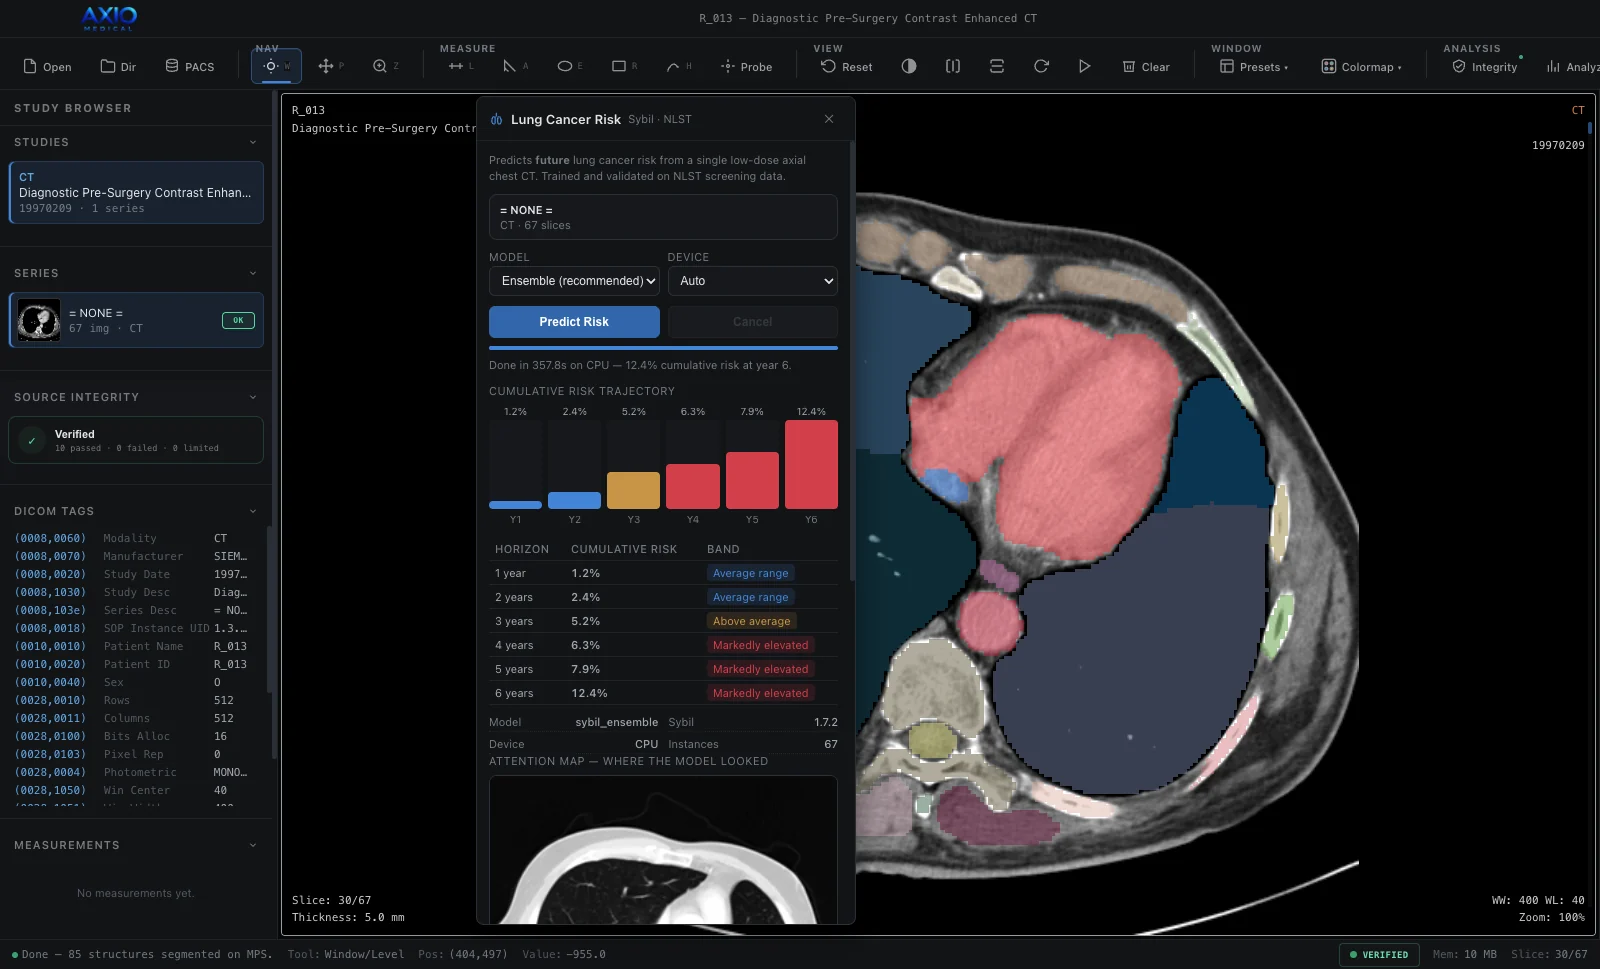
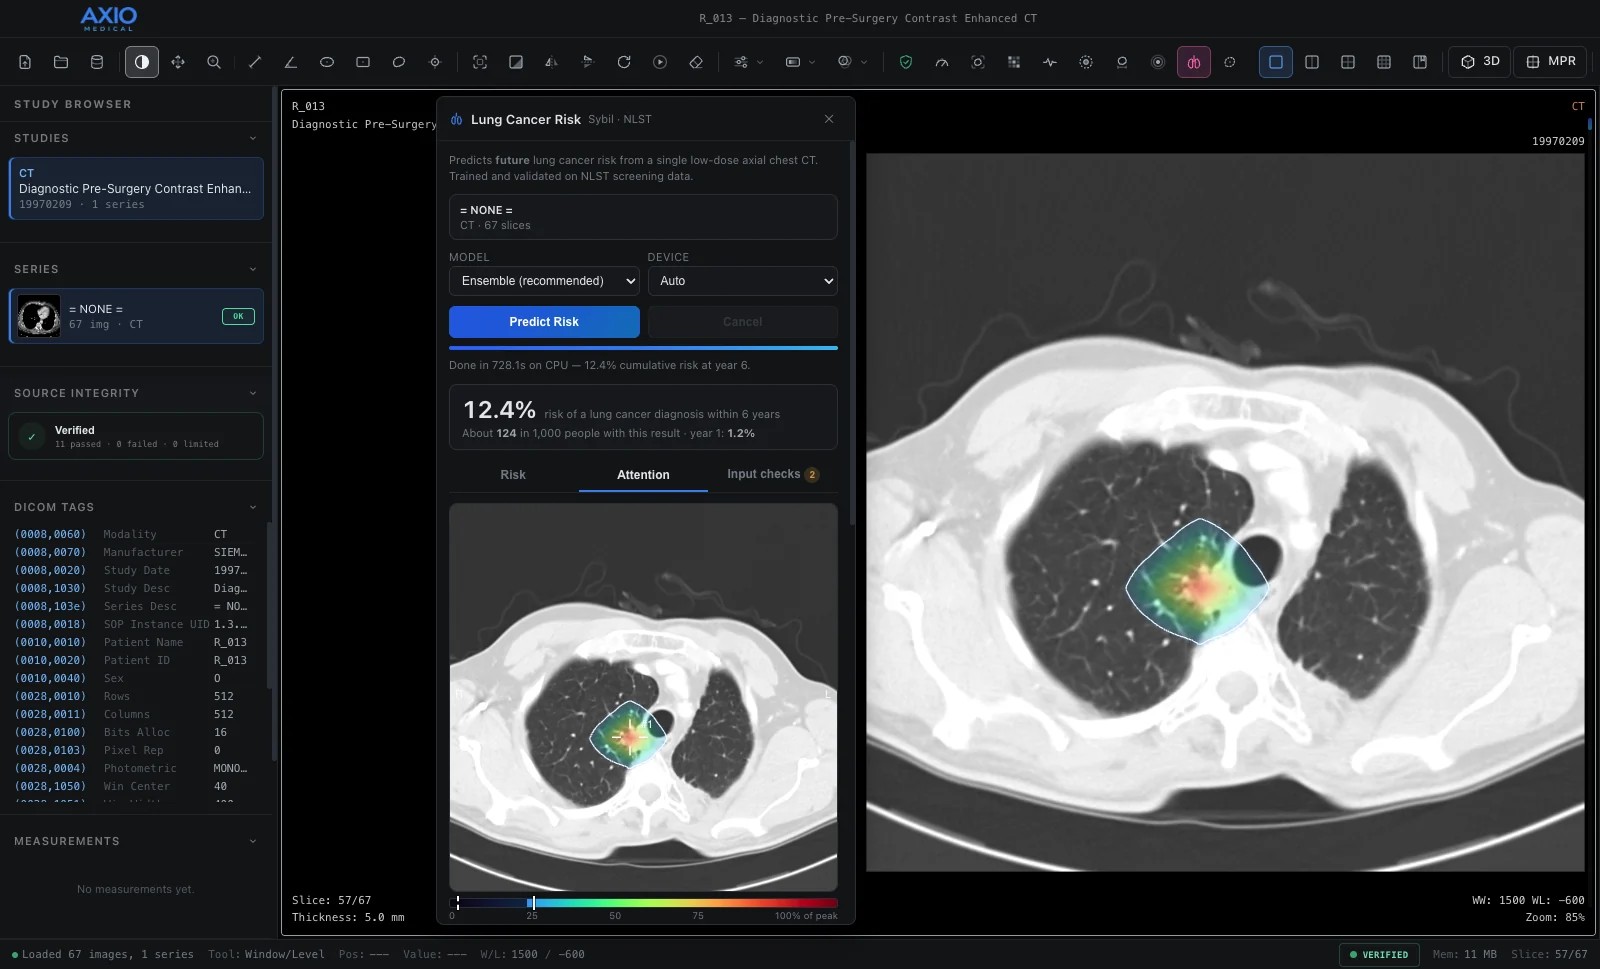
Website: 2.8.14 download, RECIST 1.1, current Lung Risk screenshot

diff --git a/index.html b/index.html
@@ -514,8 +514,8 @@
         </div>
       </div>
       <figure class="lg:col-span-7">
-        <div class="figure-frame"><img src="img/lungrisk.webp" width="1600" height="969" loading="lazy" alt="The Lung Cancer Risk panel with a six-year cumulative risk chart and an attention map over a chest CT slice."></div>
-        <figcaption class="caption">The Lung Cancer Risk panel as it was before 2.8.13: a cumulative trajectory and the attention map. 2.8.13 places the attention where the model looked and drops the per-horizon risk bands, which had no published source.</figcaption>
+        <div class="figure-frame"><img src="img/lungrisk.webp" width="1600" height="969" loading="lazy" alt="The Lung Cancer Risk panel: the model's attention in a colour scale over a chest CT slice, with the same map on the main image and the six-year risk."></div>
+        <figcaption class="caption">The Lung Cancer Risk panel: the model's attention, placed where it looked, in the panel and on the main image.</figcaption>
       </figure>
     </div>
   </div>
@@ -584,10 +584,12 @@
     <div class="grid gap-12 lg:grid-cols-12">
       <div class="lg:col-span-5">
         <p class="eyebrow">Download</p>
-        <h2 class="h-section mt-3">AXIO Medical 2.8.13</h2>
+        <h2 class="h-section mt-3">AXIO Medical 2.8.14</h2>
         <p class="lede mt-4">The 30-day trial. No account needed and no telemetry; enter your institution's licence key to keep using it afterwards.</p>
         <div class="mt-8 rounded-lg border border-accent/30 bg-accent/[0.06] p-5">
-          <p class="text-[14px] font-semibold text-ink-1">New in 2.8.13</p>
+          <p class="text-[14px] font-semibold text-ink-1">New in 2.8.14</p>
+          <p class="mt-2 text-[13.5px] leading-relaxed text-ink-2">Tumour response by RECIST 1.1: record target and non-target lesions, outline each in 3D with one click (its diameters and volume measured from the outline), and at the next study find every lesion again by the patient's anatomy and outline it the same way. Each follow-up gets its response and the case its best overall response, with every rule of the guideline and its 2016 update applied, and the reader's decision kept beside the computed one. A redrawn toolbar, each button in its own colour.</p>
+          <p class="mt-3 text-[14px] font-semibold text-ink-1">New in 2.8.13</p>
           <p class="mt-2 text-[13.5px] leading-relaxed text-ink-2">The lung cancer risk attention map is drawn where the model actually looked, by replaying its own preprocessing — earlier versions stretched it over the series, up to 40 mm off. The panel adds risk within each year, the five ensemble members, and checks of the scan against what the model was developed on.</p>
           <p class="mt-3 text-[14px] font-semibold text-ink-1">New in 2.8.12</p>
           <p class="mt-2 text-[13.5px] leading-relaxed text-ink-2">Every finding of an independent accuracy audit is corrected: the aortic diameter is measured perpendicular to the vessel, bone density follows the published L1 method, Lung-RADS applies v2022's size thresholds, PET SUV reconciles time zones, and tilted series are blocked from 3D. The AI engines now load on macOS 27.</p>
@@ -604,8 +606,8 @@
           <h3 class="font-display text-[18px] font-semibold">macOS</h3>
           <p class="mt-1 text-[13px] text-ink-3">macOS 11+ · Apple Silicon (M1 and later)</p>
           <div class="mt-6 flex flex-col gap-3">
-            <a class="btn-primary" href="https://github.com/godsonj64/axiomedical3-releases/releases/download/v2.8.13/AXIO.Medical-2.8.13-arm64.dmg">Disk image <span class="font-normal opacity-80">· 112 MB</span></a>
-            <a class="btn-secondary" href="https://github.com/godsonj64/axiomedical3-releases/releases/download/v2.8.13/AXIO.Medical-2.8.13-arm64-mac.zip">Zipped app <span class="font-normal text-ink-3">· 123 MB</span></a>
+            <a class="btn-primary" href="https://github.com/godsonj64/axiomedical3-releases/releases/download/v2.8.14/AXIO.Medical-2.8.14-arm64.dmg">Disk image <span class="font-normal opacity-80">· 112 MB</span></a>
+            <a class="btn-secondary" href="https://github.com/godsonj64/axiomedical3-releases/releases/download/v2.8.14/AXIO.Medical-2.8.14-arm64-mac.zip">Zipped app <span class="font-normal text-ink-3">· 123 MB</span></a>
           </div>
           <p class="fine mt-3">Intel Mac? <a class="text-accent-tint underline decoration-accent/40 underline-offset-2 hover:decoration-accent" href="https://github.com/godsonj64/axiomedical3-releases/releases/tag/v2.8.8">2.8.8</a> is the last version for Intel Macs.</p>
         </div>
@@ -613,12 +615,12 @@
           <h3 class="font-display text-[18px] font-semibold">Windows</h3>
           <p class="mt-1 text-[13px] text-ink-3">Windows 10 / 11 · x64</p>
           <div class="mt-6 flex flex-col gap-3">
-            <a class="btn-primary" href="https://github.com/godsonj64/axiomedical3-releases/releases/download/v2.8.13/AXIO.Medical.Setup.2.8.13.exe">Installer <span class="font-normal opacity-80">· 103 MB</span></a>
-            <a class="btn-secondary" href="https://github.com/godsonj64/axiomedical3-releases/releases/download/v2.8.13/AXIO.Medical.2.8.13.exe">Portable <span class="font-normal text-ink-3">· 102 MB</span></a>
+            <a class="btn-primary" href="https://github.com/godsonj64/axiomedical3-releases/releases/download/v2.8.14/AXIO.Medical.Setup.2.8.14.exe">Installer <span class="font-normal opacity-80">· 103 MB</span></a>
+            <a class="btn-secondary" href="https://github.com/godsonj64/axiomedical3-releases/releases/download/v2.8.14/AXIO.Medical.2.8.14.exe">Portable <span class="font-normal text-ink-3">· 102 MB</span></a>
           </div>
         </div>
         <div class="sm:col-span-2">
-          <p class="fine">These builds are not signed with a paid code-signing certificate. On macOS, open the app once, then choose <span class="text-ink-2">Open Anyway</span> under System Settings → Privacy &amp; Security; on Windows, choose <span class="text-ink-2">More info → Run anyway</span> if SmartScreen appears. Verify downloads against the SHA-256 checksums in the <a class="text-accent-tint underline decoration-accent/40 underline-offset-2 hover:decoration-accent" href="https://github.com/godsonj64/axiomedical3-releases/releases/tag/v2.8.13">release notes</a>.</p>
+          <p class="fine">These builds are not signed with a paid code-signing certificate. On macOS, open the app once, then choose <span class="text-ink-2">Open Anyway</span> under System Settings → Privacy &amp; Security; on Windows, choose <span class="text-ink-2">More info → Run anyway</span> if SmartScreen appears. Verify downloads against the SHA-256 checksums in the <a class="text-accent-tint underline decoration-accent/40 underline-offset-2 hover:decoration-accent" href="https://github.com/godsonj64/axiomedical3-releases/releases/tag/v2.8.14">release notes</a>.</p>
         </div>
       </div>
     </div>

diff --git a/overview.html b/overview.html
@@ -53,7 +53,7 @@
 <!-- ───────────────────────── hero ───────────────────────── -->
 <section id="top" class="border-b border-line">
   <div class="wrap pb-16 pt-16 md:pb-20 md:pt-24">
-    <p class="eyebrow">Product overview · AXIO Medical 2.8.13</p>
+    <p class="eyebrow">Product overview · AXIO Medical 2.8.14</p>
     <div class="mt-4 grid gap-10 lg:grid-cols-12 lg:items-end">
       <div class="lg:col-span-7">
         <h1 class="font-display text-[clamp(2.25rem,5.2vw,3.75rem)] font-bold leading-[1.05] tracking-tightest">
@@ -329,10 +329,10 @@
 <section id="screening" class="border-b border-line">
   <div class="wrap py-20 md:py-28">
     <p class="eyebrow">Capabilities · Screening and oncology</p>
-    <h2 class="h-section mt-3 max-w-[24ch]">Lung screening, risk and PET in one place</h2>
-    <p class="lede mt-4">Nodule measurement, Lung-RADS, lung cancer risk and PET lesion quantification, each with the reader's decision recorded beside the software's proposal.</p>
+    <h2 class="h-section mt-3 max-w-[24ch]">Screening, tumour response, risk and PET in one place</h2>
+    <p class="lede mt-4">Nodule measurement, Lung-RADS, tumour response by RECIST 1.1, lung cancer risk and PET lesion quantification, each with the reader's decision recorded beside the software's proposal.</p>
 
-    <div class="mt-12 grid gap-5 md:grid-cols-2 lg:grid-cols-3">
+    <div class="mt-12 grid gap-5 md:grid-cols-2 lg:grid-cols-2">
       <div class="card">
         <span class="module">Lung screening</span>
         <h3 class="card-title">Nodules and Lung-RADS v2022</h3>
@@ -343,6 +343,17 @@
           <li>Matching to the patient's prior read, with growth assessment</li>
           <li>Lung-RADS categories and management, with reader override and reason</li>
           <li>One screening report with nodules, emphysema index and lung cancer risk</li>
+        </ul>
+      </div>
+      <div class="card">
+        <span class="module">Tumour response</span>
+        <h3 class="card-title">RECIST 1.1, lesion by lesion</h3>
+        <ul class="bullets mt-4">
+          <li>Target and non-target lesions over dated studies: five targets, two per organ, lymph nodes as one organ</li>
+          <li>One click outlines a lesion in 3D; RECIST diameters and volume come from the outline, calipers when you prefer</li>
+          <li>At the next study every lesion is found again by the patient's anatomy and outlined the same way, for the reader to confirm</li>
+          <li>Response per timepoint, best overall response and date of progression, by the guideline and its 2016 update</li>
+          <li>Reader overrides kept beside the computed response, with a reason</li>
         </ul>
       </div>
       <div class="card">
@@ -378,8 +389,8 @@
         </div>
       </div>
       <figure class="lg:col-span-7">
-        <div class="figure-frame"><img src="img/lungrisk.webp" width="1600" height="969" loading="lazy" alt="The Lung Cancer Risk panel with a six-year cumulative risk chart and an attention map over a chest CT slice."></div>
-        <figcaption class="caption">The Lung Cancer Risk panel as it was before 2.8.13: a cumulative trajectory and the attention map; 2.8.13 drops the per-horizon risk bands, which had no published source. The example scan is outside the model's population, so it shows the engine running, not a valid risk.</figcaption>
+        <div class="figure-frame"><img src="img/lungrisk.webp" width="1600" height="969" loading="lazy" alt="The Lung Cancer Risk panel: the model's attention in a colour scale over a chest CT slice, with the same map on the main image and the six-year risk."></div>
+        <figcaption class="caption">The Lung Cancer Risk panel: the model's attention, placed where it looked, in the panel and on the main image. The example scan is outside the model's population (its input checks say so), so it shows the engine running, not a valid risk.</figcaption>
       </figure>
     </div>
   </div>
@@ -435,6 +446,7 @@
             <tr><td>Biomarker results</td><td>DICOM SR (TID 1500 measurement report), with grades and unmet input checks</td></tr>
             <tr><td>Report and data</td><td>Structured text report and CSV, with review decisions and prior comparison</td></tr>
             <tr><td>Masks and features</td><td>NIfTI segmentation masks; radiomics CSV</td></tr>
+            <tr><td>Tumour response</td><td>Text report, CSV and JSON: every lesion at every timepoint, the responses with their reasons, reader overrides</td></tr>
             <tr><td>Lung cancer risk</td><td>JSON trajectory with attention, ensemble members and input checks; PNG attention figure</td></tr>
             <tr><td>Integrity evidence</td><td>JSON with tolerances and per-check findings</td></tr>
             <tr><td>Cohort</td><td>De-identified CSV, JSON records and QC images</td></tr>
